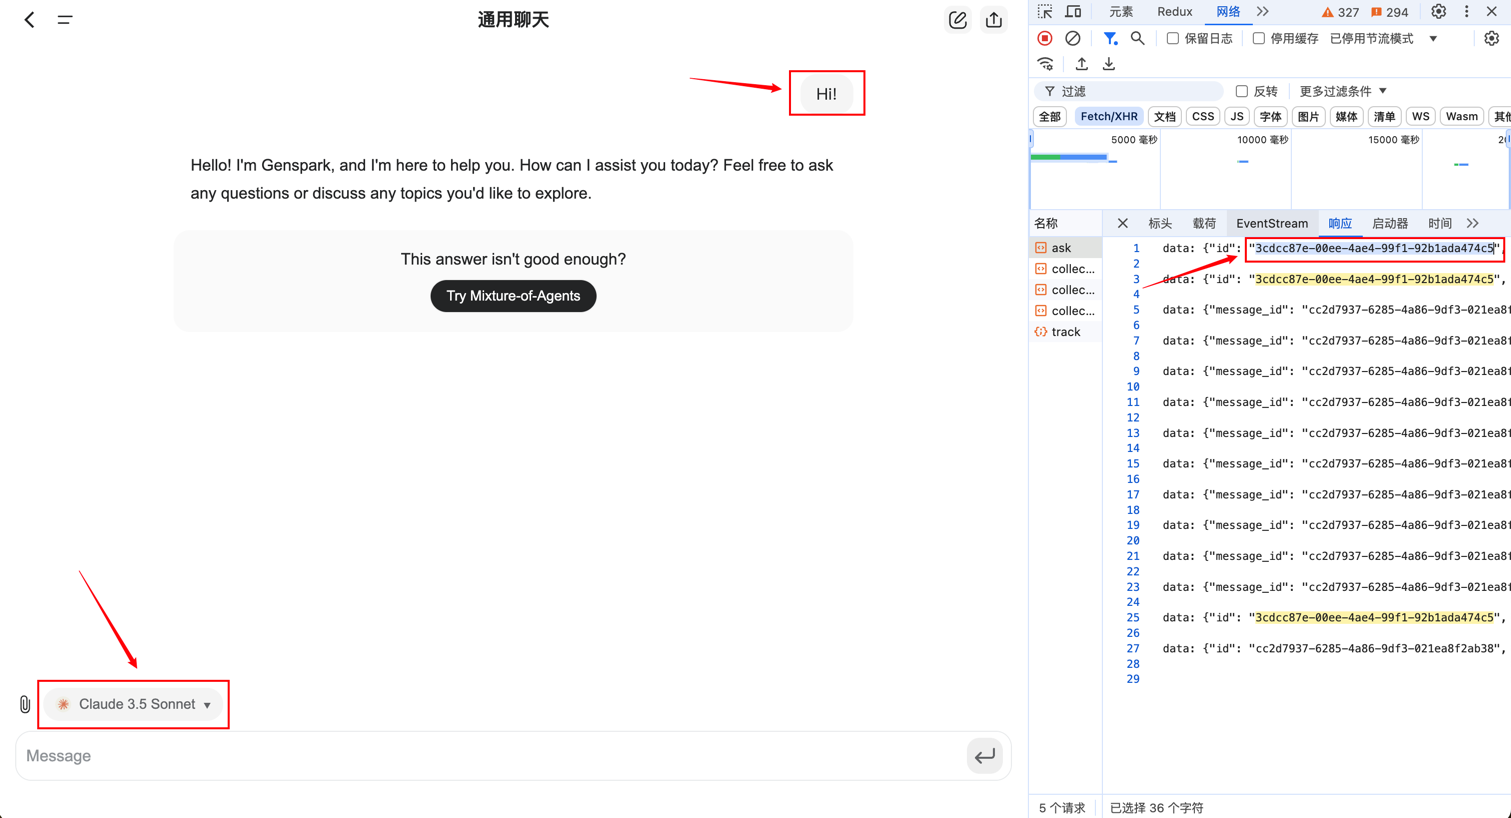
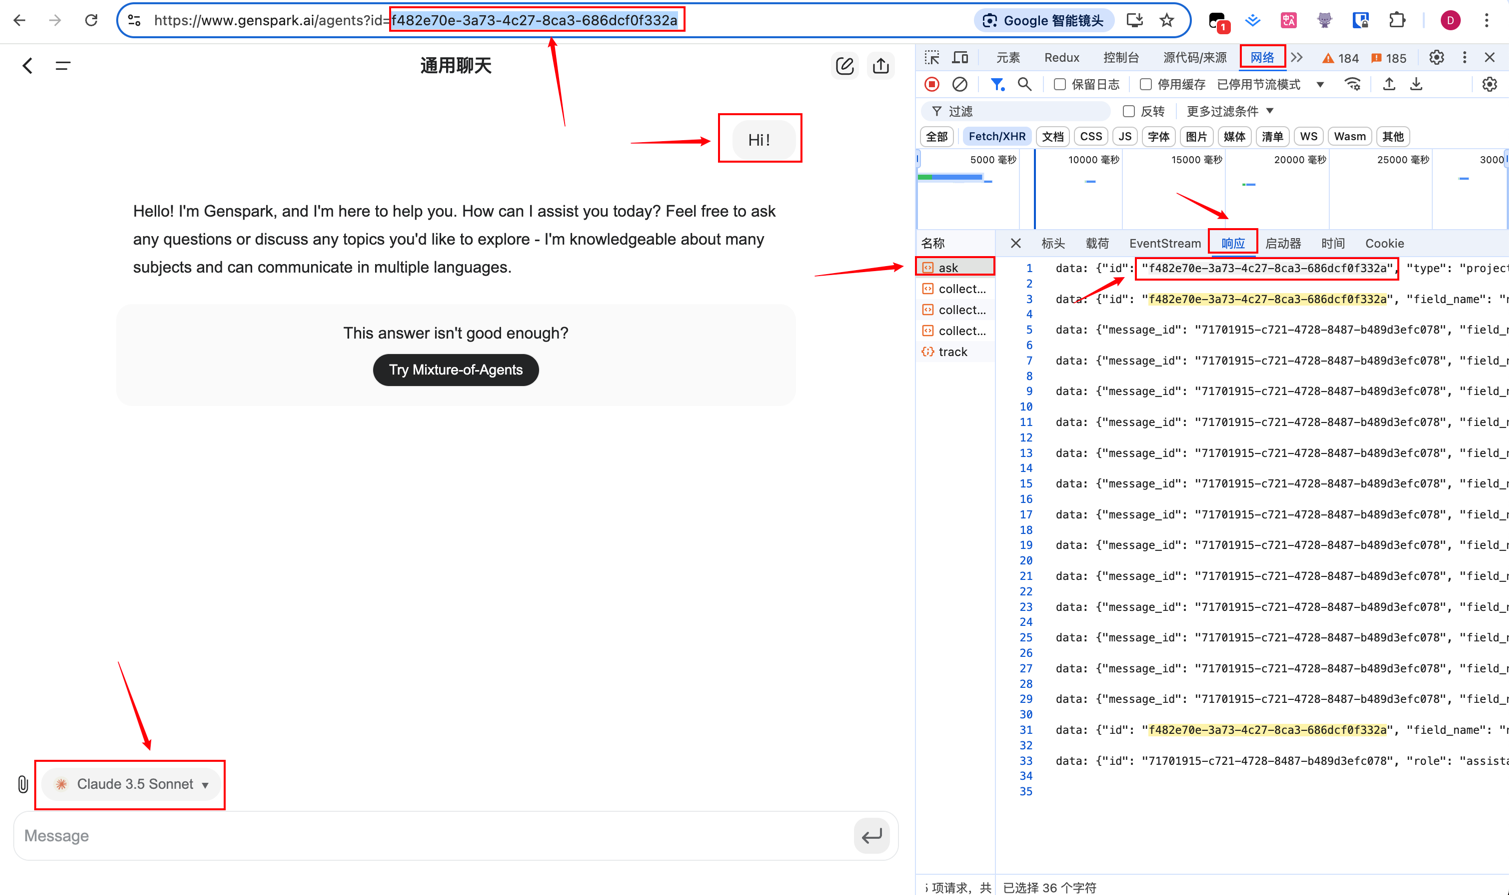
docs

diff --git a/README.md b/README.md
@@ -174,7 +174,7 @@ Render 可以直接部署 docker 镜像,不需要 fork 仓库：[Render](https:/
 
 1. 打开**F12**开发者工具。
 2. 选择需要绑定的对话的模型(示例:`claude-3-5-sonnet`),发起对话。
-3. 点击ask请求，响应中的`id`即为此对话唯一id。
+3. 点击ask请求，此时最上方url中的`id`(或响应中的`id`)即为此对话唯一id。
 ![img.png](docs/img4.png)
 4. 配置环境变量 `MODEL_CHAT_MAP=claude-3-5-sonnet=3cdcc******474c5` (多个请以,分隔)
 
